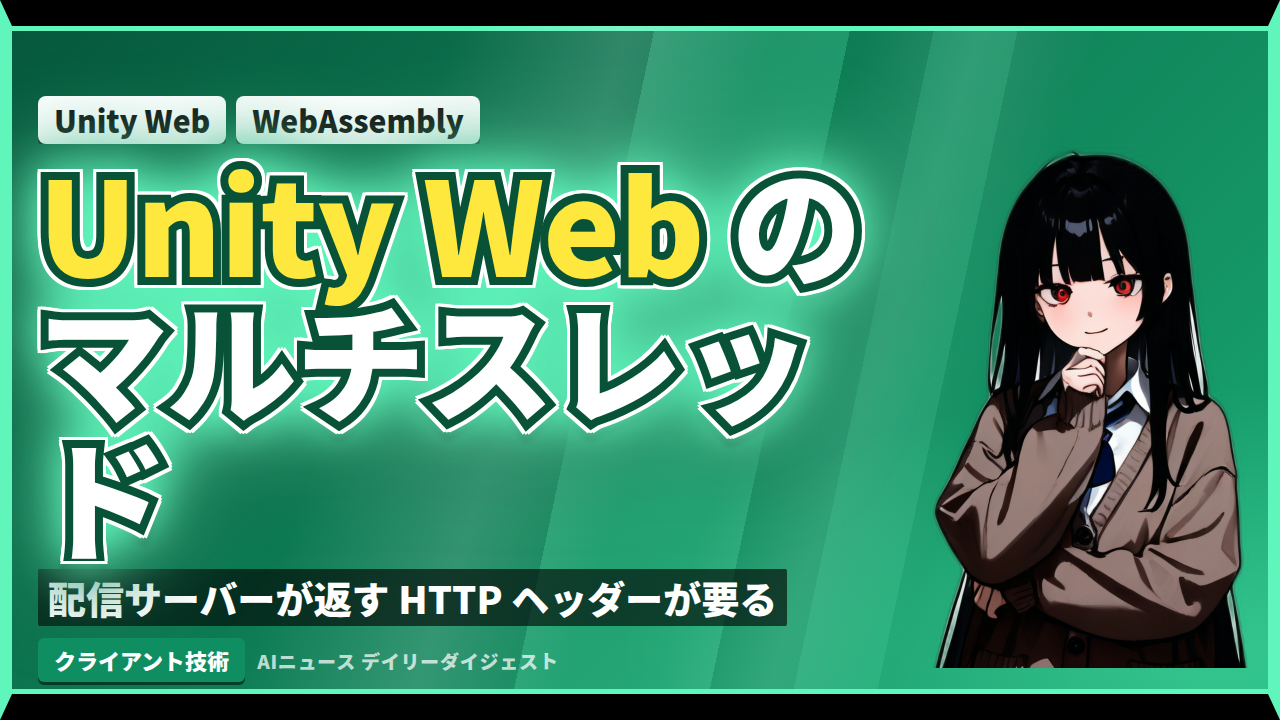
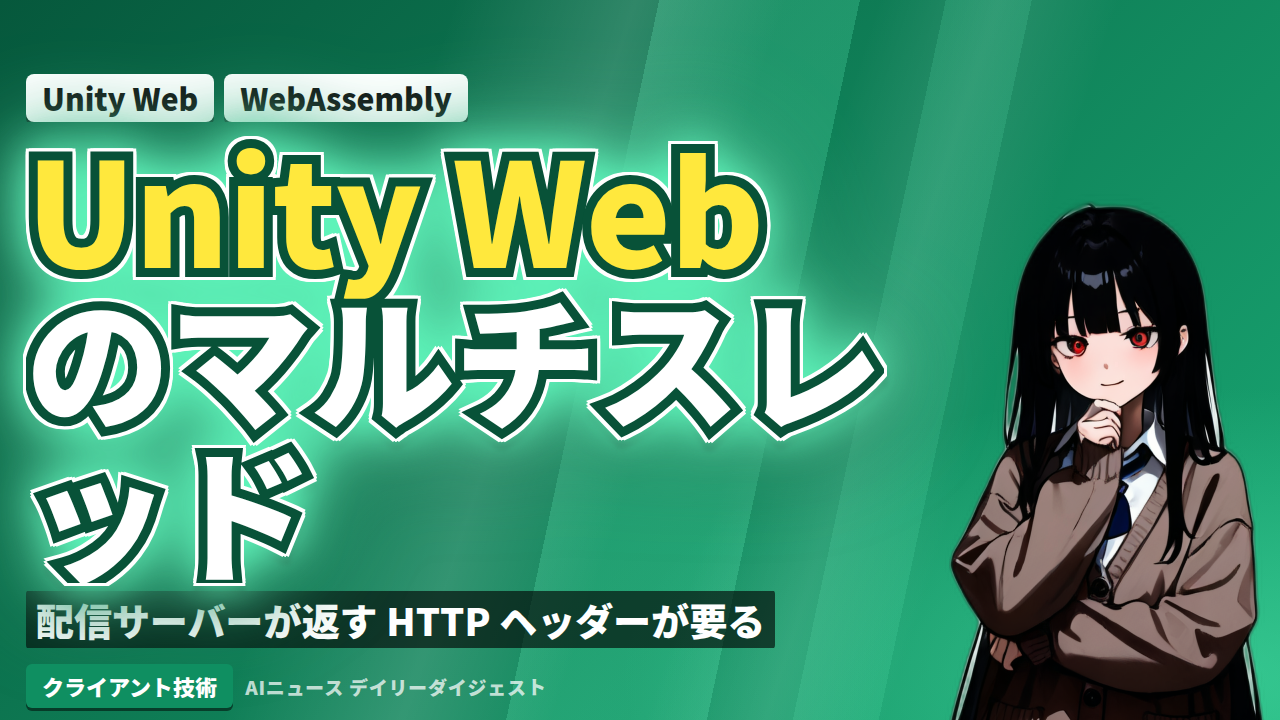
サムネイルの額縁(上下の黒帯・左右の色枠)を外した
上下26pxの黒帯と左右12pxのアクセント色の枠、その内側の細線が重なって、
サムネイル全体が押しボタンのように見えていた(運営者の指摘)。全部外して、
背景が四辺いっぱいまで広がる普通の形にした。

- .frame の border 4辺と、::before/::after の細線を削除
- 文字の幅・高さの見積もりから枠と黒帯のぶんを除去(そのぶん文字が使える面が広がる)
- キャラの切り口(胸から上)を画面の下端にぴったり付けた。黒帯が無くなったので、
  切り口を縁に合わせないと宙に浮いて見えるため
- CLAUDE.md と _HANDOFF.md の黒帯への言及を修正。「額縁で締める方向はやらない」を
  ハマりどころ表に追記

全25記事を撮り直し、青(デイリー)・黄(チーム)・緑(クライアント)の3カテゴリを
目視確認した。

diff --git a/_render_thumbs.py b/_render_thumbs.py
@@ -85,7 +85,7 @@ WIDTH, HEIGHT = 1280, 720
 # **画像を置くまではキャラ無しで組む**(文字が広く使えるので、そのほうが読める)。
 CHARA_DIR = HERE / "_assets" / "character"
 CHARA_W = 440                      # 画像を置いたときに右側で占める幅の上限
-CHARA_H = 660                      # 同じく高さの上限(上下の黒帯 26px ずつを避ける)
+CHARA_H = 660                      # 同じく高さの上限(上に文字用の余白を残す)
 # 置いてある画像は全身の立ち絵だが、そのまま縮めると**顔が10px程度になり表情が分からない**。
 # 描画時に上から CHARA_CROP のぶんだけ切り出して(=胸から上)、大きく見せる。
 # 元画像は全身のまま残してあるので、この数字を変えて撮り直すだけで比率を変えられる。
@@ -385,13 +385,13 @@ def build_html(meta, dirname):
     bg1 = _mix(t["bg1"], t["chip"], tone["mix"])
     bg2 = _mix(t["bg2"], t["accent"], tone["mix"] * 0.6)
 
-    # 使える横幅。左右パディング26px + 枠12px + キャラのぶんを引く
-    avail = WIDTH - 2 * 12 - 2 * 26 - chara_w
+    # 使える横幅。左右パディング26px + キャラのぶんを引く
+    avail = WIDTH - 2 * 26 - chara_w
     card_px = 30
     hook_px = size_for(hook, avail, 78, 52, 28, 1, 1.06)[0] if hook else 0
 
-    # 上下の帯・フック・カード・補足・フッターを引いた残りが主役の高さ
-    used = 26 * 2 + 14 + 12                      # 黒帯 + 上下パディング
+    # フック・カード・補足・フッターを引いた残りが主役の高さ
+    used = 14 + 12                               # 上下パディング
     used += int(hook_px * 1.06) + 6 if hook else 0
     used += (card_px + 18 + 6) if cards_src else 0
     used += 34 + 6                               # フッター
@@ -419,8 +419,6 @@ body{{font-family:'NotoJP','IPAGothic',sans-serif;background:#000}}
   background:
     radial-gradient({tone['glow']}, {t['accent']}66 0%, transparent 56%),
     linear-gradient(135deg, {bg1} 0%, {bg2} 100%);
-  border-top:26px solid #000;border-bottom:26px solid #000;
-  border-left:12px solid {t['accent']};border-right:12px solid {t['accent']};
 }}
 /* 背景の柄。日付で切り替わる(PATTERNS) */
 .pat{{position:absolute;inset:0;background:{pattern};pointer-events:none}}
@@ -430,13 +428,6 @@ body{{font-family:'NotoJP','IPAGothic',sans-serif;background:#000}}
   background:
     linear-gradient(108deg, transparent 30%, #ffffff26 42%, transparent 52%),
     linear-gradient(108deg, transparent 58%, #ffffff1a 66%, transparent 74%);
-}}
-/* 上下の黒帯の内側に、色の細線を1本入れて締める */
-.frame::before{{
-  content:"";position:absolute;left:0;right:0;top:0;height:5px;background:{t['accent']};
-}}
-.frame::after{{
-  content:"";position:absolute;left:0;right:0;bottom:0;height:5px;background:{t['accent']};
 }}
 .stack{{
   position:absolute;inset:0;z-index:3;
@@ -496,7 +487,7 @@ body{{font-family:'NotoJP','IPAGothic',sans-serif;background:#000}}
 }}
 .site{{color:#ffffffbb;font-weight:900;font-size:19px;letter-spacing:.04em;white-space:nowrap}}
 /* 大きさは画像ごとに決まるので style 属性で入れる(fit_chara) */
-.chara{{position:absolute;right:14px;bottom:26px;z-index:2;object-fit:contain}}
+.chara{{position:absolute;right:10px;bottom:0;z-index:2;object-fit:contain}}
 </style></head><body><div class="frame">
   <div class="pat"></div>
   <div class="shine"></div>
